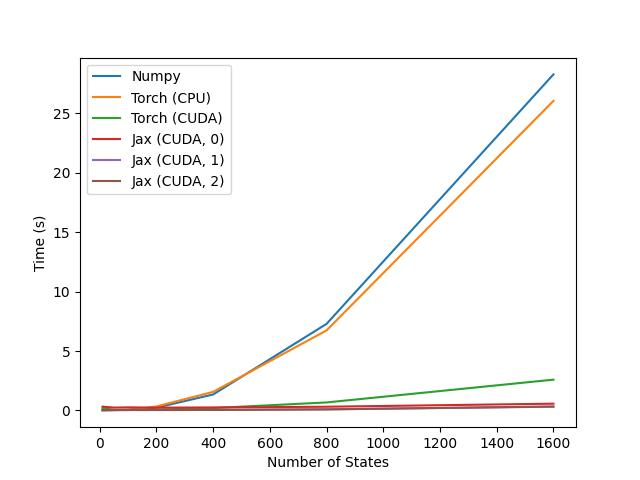
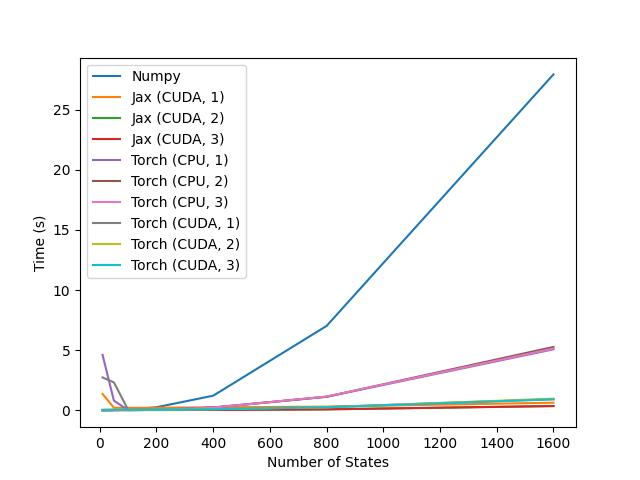
add torch JIT with compile and update speedtest results

diff --git a/value_iteration/speedtest.py b/value_iteration/speedtest.py
@@ -4,19 +4,37 @@ import matplotlib.pyplot as plt
 
 from value_iteration import generate_random_mdp, value_iteration_numpy, value_iteration_jax, value_iteration_torch
 
+ROUNDS = 3
 
-def plot_times(num_statess, np_times, jax_times, torch_cpu_times, torch_gpu_times):
-    plt.plot(num_statess, np_times, label="Numpy")
-    plt.plot(num_statess, torch_cpu_times, label="Torch (CPU)")
-    plt.plot(num_statess, torch_gpu_times, label="Torch (CUDA)")
-    plt.plot(num_statess, jax_times[0], label="Jax (CUDA, 0)")
-    plt.plot(num_statess, jax_times[1], label="Jax (CUDA, 1)")
-    plt.plot(num_statess, jax_times[2], label="Jax (CUDA, 2)")
+
+def plot_times(
+        num_statess,
+        np_times=None,
+        jax_times=None,
+        torch_cpu_times=None,
+        torch_gpu_times=None,
+        log_scale=False,
+        save_name="value_iteration_speedtest.jpg",
+):
+    plt.figure()
+    if np_times is not None:
+        plt.plot(num_statess, np_times, label="Numpy")
+    if jax_times is not None:
+        for r in range(ROUNDS):
+            plt.plot(num_statess, jax_times[r], label=f"Jax (CUDA, {r+1})")
+    if torch_cpu_times is not None:
+        for r in range(ROUNDS):
+            plt.plot(num_statess, torch_cpu_times[r], label=f"Torch (CPU, {r+1})")
+    if torch_gpu_times is not None:
+        for r in range(ROUNDS):
+            plt.plot(num_statess, torch_gpu_times[r], label=f"Torch (CUDA, {r+1})")
     plt.xlabel("Number of States")
     plt.ylabel("Time (s)")
+    if log_scale:
+        plt.yscale("log")
     plt.legend()
     # plt.yscale("log")
-    plt.savefig("value_iteration_speedtest.jpg")
+    plt.savefig(save_name)
 
 
 if __name__ == "__main__":
@@ -24,9 +42,9 @@ if __name__ == "__main__":
     num_actions = 10
 
     np_times = []
-    jax_times = [[] for _ in range(3)]
-    torch_cpu_times = []
-    torch_gpu_times = []
+    jax_times = [[] for _ in range(ROUNDS)]
+    torch_cpu_times = [[] for _ in range(ROUNDS)]
+    torch_gpu_times = [[] for _ in range(ROUNDS)]
 
     for num_states in num_statess:
         print(f"Generating Random MDP with {num_states} states ...")
@@ -38,24 +56,29 @@ if __name__ == "__main__":
         end = time.time()
         np_times.append(end - start)
 
-        print("Torch (CPU) Value Iteration ...")
-        start = time.time()
-        policy, value = value_iteration_torch(transition_function, reward_function, device="cpu")
-        end = time.time()
-        torch_cpu_times.append(end - start)
+        for r in range(ROUNDS):
+            print(f"Torch (CPU) Value Iteration (round {r+1}) ...")
+            start = time.time()
+            policy, value = value_iteration_torch(transition_function, reward_function, device="cpu")
+            end = time.time()
+            torch_cpu_times[r].append(end - start)
 
-        print("Torch (GPU) Value Iteration ...")
-        start = time.time()
-        policy, value = value_iteration_torch(transition_function, reward_function, device="cuda")
-        end = time.time()
-        torch_gpu_times.append(end - start)
+        for r in range(ROUNDS):
+            print(f"Torch (GPU) Value Iteration (round {r+1}) ...")
+            start = time.time()
+            policy, value = value_iteration_torch(transition_function, reward_function, device="cuda")
+            end = time.time()
+            torch_gpu_times[r].append(end - start)
 
-        for round in range(3):
-            print(f"Jax Value Iteration (round {round}) ...")
+        for r in range(ROUNDS):
+            print(f"Jax Value Iteration (round {r+1}) ...")
             start = time.time()
             policy, value = value_iteration_jax(transition_function, reward_function, gamma=0.9)
             end = time.time()
-            jax_times[round].append(end - start)
+            jax_times[r].append(end - start)
         print()
 
     plot_times(num_statess, np_times, jax_times, torch_cpu_times, torch_gpu_times)
+    plot_times(num_statess, np_times, jax_times, torch_cpu_times, torch_gpu_times, log_scale=True, save_name="value_iteration_speedtest_log.jpg")
+    plot_times(num_statess, None, jax_times, torch_cpu_times, torch_gpu_times, save_name="value_iteration_speedtest_no_numpy.jpg")
+    plot_times(num_statess, None, jax_times, None, torch_gpu_times, save_name="value_iteration_speedtest_gpu_only.jpg")

diff --git a/value_iteration/value_iteration.py b/value_iteration/value_iteration.py
@@ -10,6 +10,7 @@ import torch
 
 GAMMA = 0.9
 THETA = 1e-15
+ROUNDS = 3
 
 
 def generate_random_mdp(num_states, num_actions):
@@ -62,6 +63,7 @@ def value_iteration_numpy(transitions, rewards, gamma=GAMMA, theta=THETA):
     return policy, value
 
 
+@torch.compile
 def value_iteration_torch(transitions, rewards, device, gamma=GAMMA, theta=THETA):
     """
     Performs value iteration on the given MDP.
@@ -79,8 +81,8 @@ def value_iteration_torch(transitions, rewards, device, gamma=GAMMA, theta=THETA
     num_states, num_actions, _ = transitions.shape
 
     # convert to torch tensors
-    transitions = torch.tensor(transitions, device=device)
-    rewards = torch.tensor(rewards, device=device)
+    transitions_torch = torch.tensor(transitions, device=device)
+    rewards_torch = torch.tensor(rewards, device=device)
 
     # Initialize value function
     value = torch.zeros(num_states, device=device)
@@ -88,12 +90,12 @@ def value_iteration_torch(transitions, rewards, device, gamma=GAMMA, theta=THETA
     delta = float("inf")
     while delta >= theta:
         # Compute the value function
-        value_new = torch.max(torch.sum(transitions * (rewards + gamma * value), dim=-1), dim=-1)[0]
+        value_new = torch.max(torch.sum(transitions_torch * (rewards_torch + gamma * value), dim=-1), dim=-1)[0]
         delta = torch.max((value_new - value).abs())
         value = value_new
 
     # Compute the policy
-    policy = torch.argmax(torch.sum(transitions * (rewards + gamma * value), dim=-1), dim=-1)
+    policy = torch.argmax(torch.sum(transitions_torch * (rewards_torch + gamma * value), dim=-1), dim=-1)
 
     return policy.detach().cpu().numpy(), value.detach().cpu().numpy()
 
@@ -169,27 +171,31 @@ if __name__ == "__main__":
     print()
 
     print("Value Iteration (Torch CPU)")
-    start = time.time()
-    policy, value = value_iteration_torch(transition_function, reward_function, device="cpu")
-    end = time.time()
-    print(f"Time taken: {end - start:.3f}s")
-    print(f"Policy: {policy}")
-    print(f"Value: {value}")
-    print()
+    for round in range(ROUNDS):
+        print(f"\tRound {round}:")
+        start = time.time()
+        policy, value = value_iteration_torch(transition_function, reward_function, device="cpu")
+        end = time.time()
+        print(f"\tTime taken: {end - start:.3f}s")
+        print(f"\tPolicy: {policy}")
+        print(f"\tValue: {value}")
+        print()
 
     print("Value Iteration (Torch CUDA)")
-    start = time.time()
-    policy, value = value_iteration_torch(transition_function, reward_function, device="cuda")
-    end = time.time()
-    print(f"Time taken: {end - start:.3f}s")
-    print(f"Policy: {policy}")
-    print(f"Value: {value}")
-    print()
+    for round in range(ROUNDS):
+        print(f"\tRound {round}:")
+        start = time.time()
+        policy, value = value_iteration_torch(transition_function, reward_function, device="cuda")
+        end = time.time()
+        print(f"\tTime taken: {end - start:.3f}s")
+        print(f"\tPolicy: {policy}")
+        print(f"\tValue: {value}")
+        print()
     print("----------------------------------------")
     print()
 
     print("Value Iteration (Jax)")
-    for round in range(3):
+    for round in range(ROUNDS):
         print(f"\tRound {round}:")
         start = time.time()
         policy, value = value_iteration_jax(transition_function, reward_function, gamma=0.9)

diff --git a/README.md b/README.md
@@ -6,3 +6,5 @@ Speedtests are conducted on a Ubuntu system with a Intel® Core™ i7-10750H CPU
 
 ## Value Iteration
 ![Image showing the execution time of value iteration on MDPs of varying number of states with numpy, torch, and jax.](value_iteration/value_iteration_speedtest.jpg "Value Iteration Speedtest")
+
+![Image showing the execution time of value iteration on MDPs of varying number of states with torch and jax on GPU only.](value_iteration/value_iteration_speedtest_gpu_only.jpg "Value Iteration Speedtest (GPU only)")
